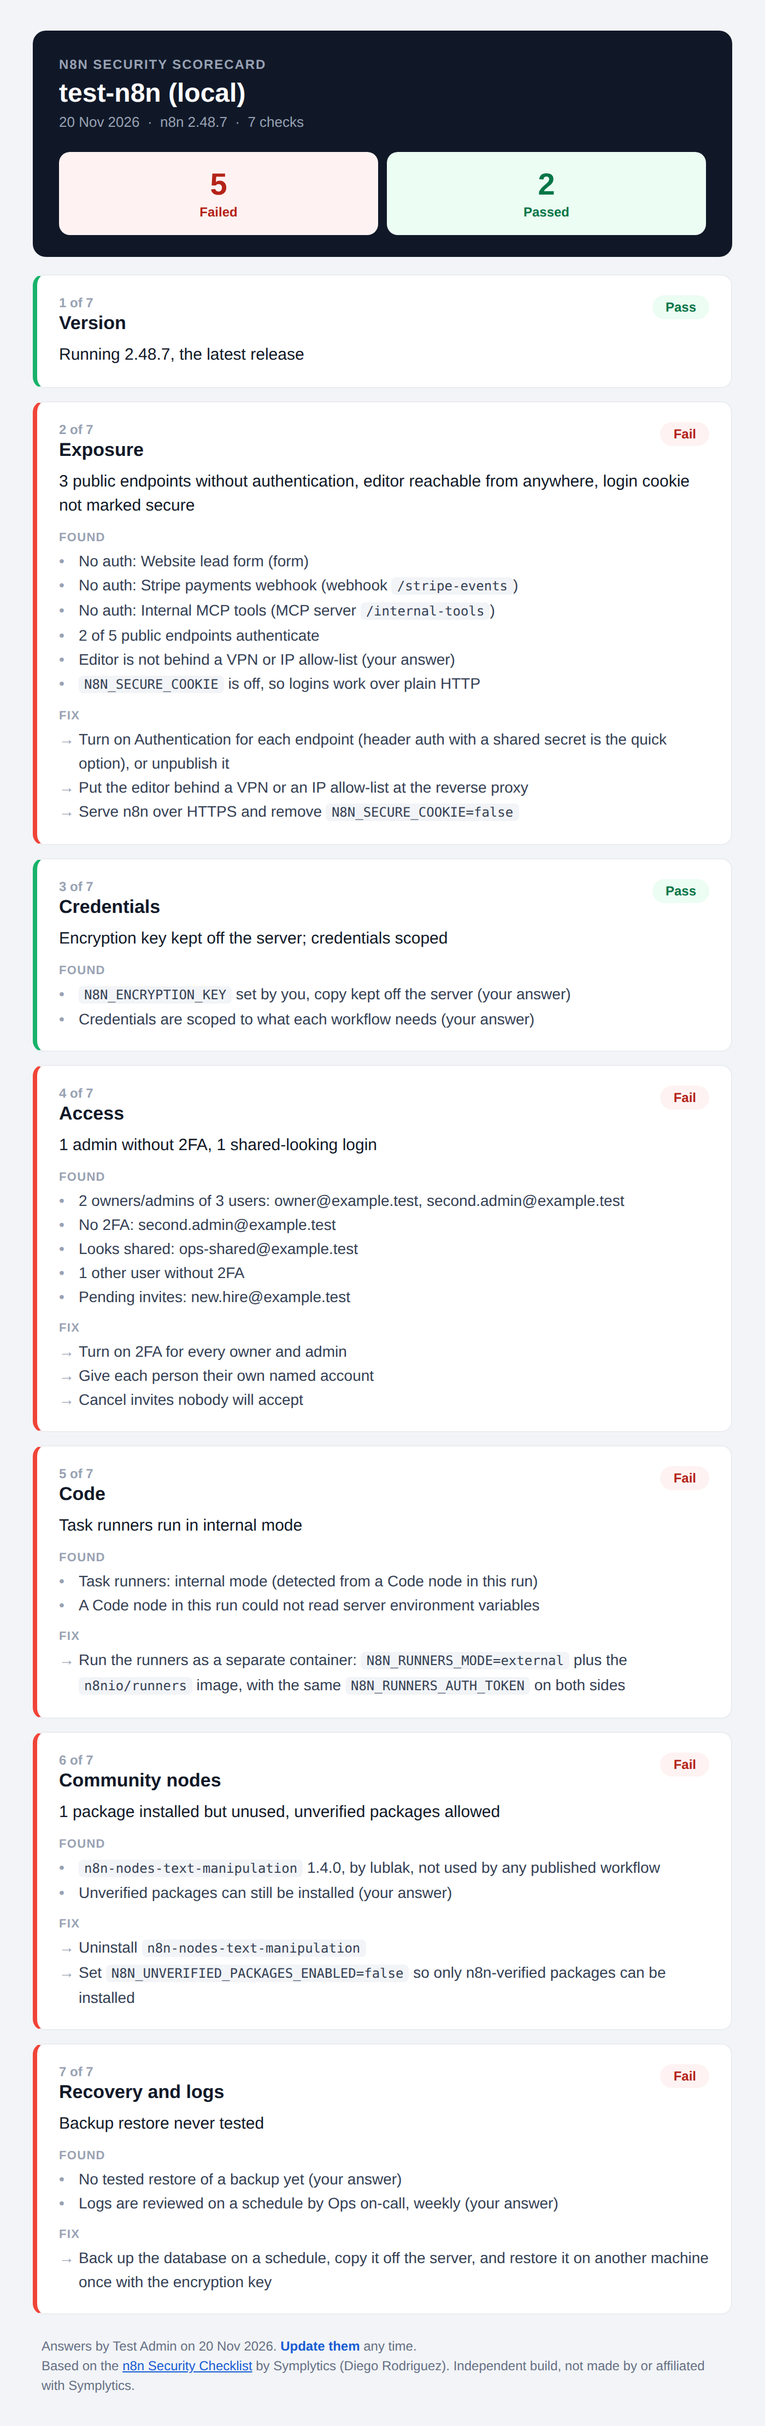
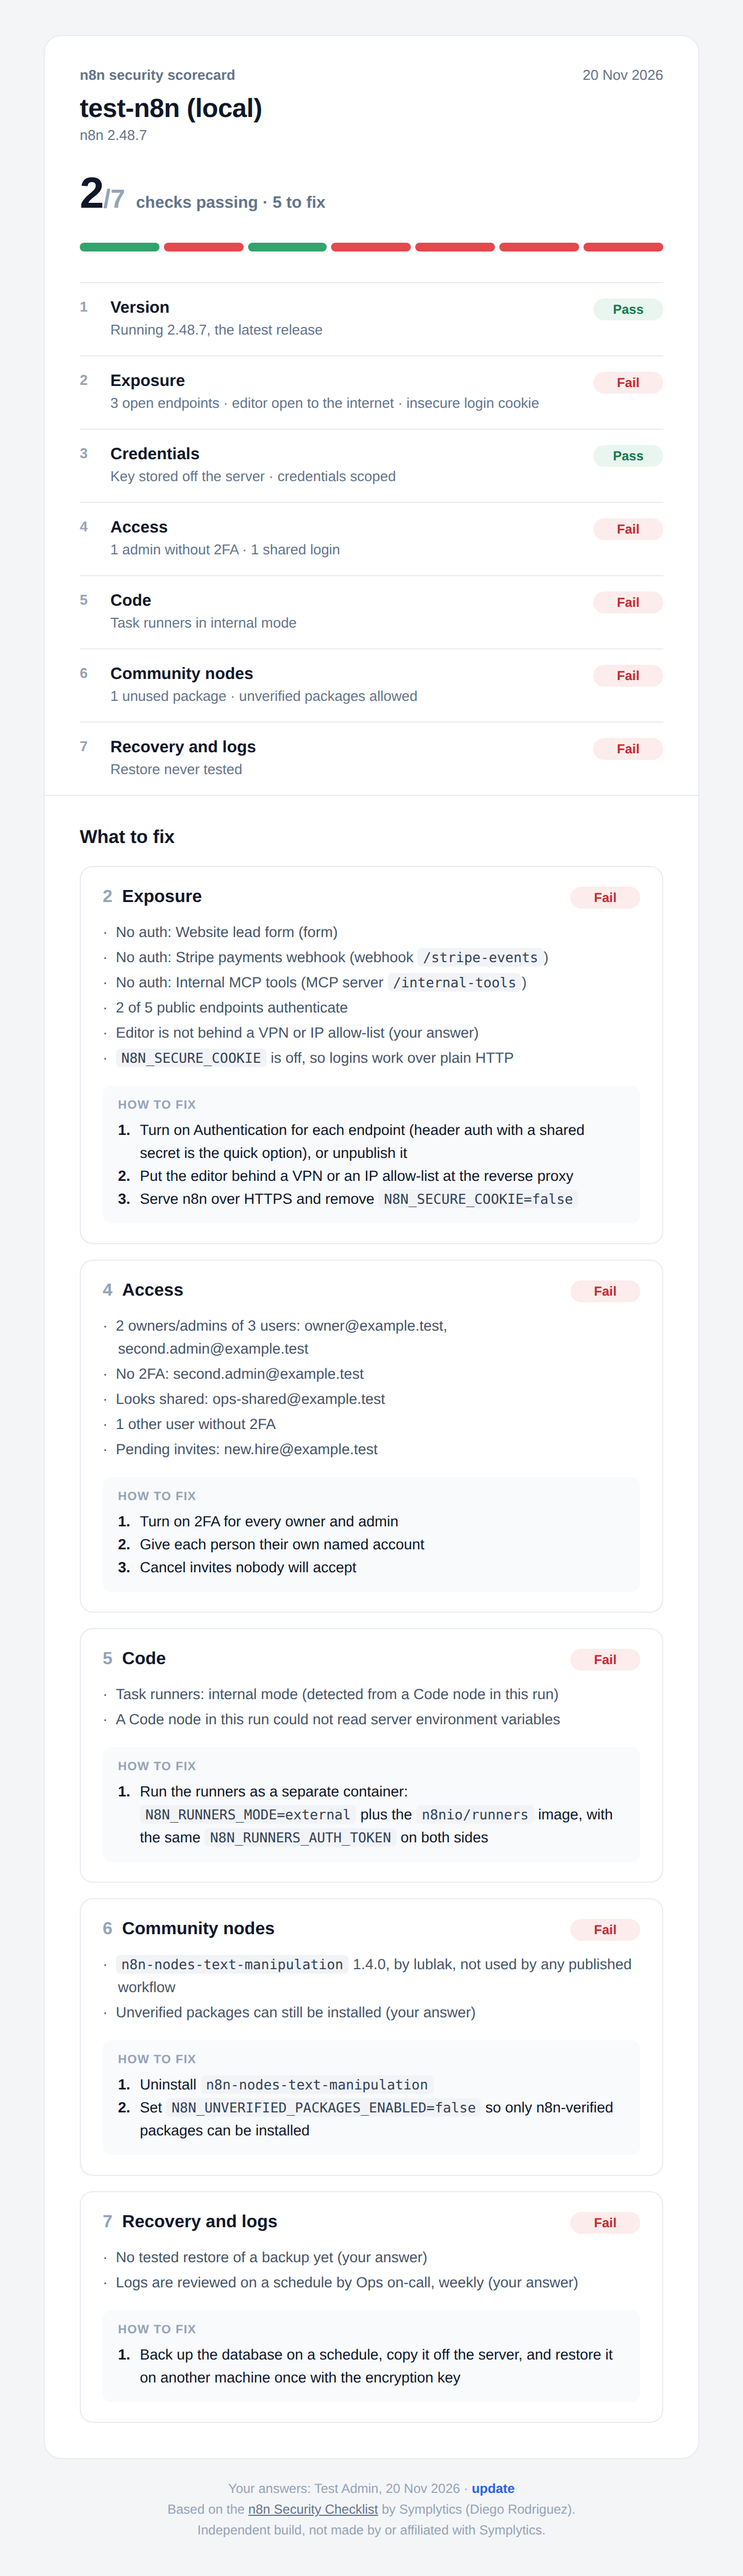
Redesign the scorecard email: score bar, one-line summary per check, details only for failures

diff --git a/src/scorecard.js b/src/scorecard.js
@@ -164,11 +164,11 @@ const decide = (autoFail, answerFail, usesAnswers = true) => {
   const found = [];
   const fix = [];
   const problems = [];
-  if (open.length) problems.push(`${plural(open.length, 'public endpoint')} without authentication`);
-  if (editorOpen) problems.push('editor reachable from anywhere');
-  if (cookieInsecure) problems.push('login cookie not marked secure');
+  if (open.length) problems.push(plural(open.length, 'open endpoint'));
+  if (editorOpen) problems.push('editor open to the internet');
+  if (cookieInsecure) problems.push('insecure login cookie');
   const total = open.length + validated.length + secured;
-  let headline = problems.length ? cap(problems.join(', ')) : `${plural(total, 'public endpoint')}, all authenticated`;
+  let headline = problems.length ? cap(problems.join(' · ')) : `${plural(total, 'public endpoint')}, all authenticated`;
   if (workflowsError) { headline = 'Could not list workflows'; found.push(workflowsError); }
   for (const o of open) found.push(`No auth: ${o}`);
   for (const v of validated) found.push(`No auth, checked in the next node: ${v}`);
@@ -203,8 +203,8 @@ const decide = (autoFail, answerFail, usesAnswers = true) => {
   if (scopeBad) fix.push('Swap broad credentials for scoped ones (for example a read-only database user)');
   if (status === 'FAIL' && unused.length) fix.push('Delete credentials nothing uses');
   const headline = status === 'FAIL'
-    ? cap([keyBad && 'encryption key has no off-server copy', scopeBad && 'some credentials are over-scoped'].filter(Boolean).join(', '))
-    : status === 'PASS' ? 'Encryption key kept off the server; credentials scoped' : 'Encryption key storage and credential scopes';
+    ? cap([keyBad && 'no off-server copy of the encryption key', scopeBad && 'over-scoped credentials'].filter(Boolean).join(' · '))
+    : status === 'PASS' ? 'Key stored off the server · credentials scoped' : 'Needs your one-time answers';
   add({ name: 'Credentials', status, headline, found, fix, needsAnswers: status === 'MANUAL' });
 }
 
@@ -231,8 +231,8 @@ const decide = (autoFail, answerFail, usesAnswers = true) => {
     const problems = [];
     if (admins.length > maxAdmins) problems.push(`${admins.length} owners/admins`);
     if (adminsNo2fa.length) problems.push(`${plural(adminsNo2fa.length, 'admin')} without 2FA`);
-    if (shared.length) problems.push(plural(shared.length, 'shared-looking login'));
-    headline = problems.length ? cap(problems.join(', ')) : `${plural(admins.length, 'owner/admin', 'owners/admins')}, all with 2FA`;
+    if (shared.length) problems.push(plural(shared.length, 'shared login'));
+    headline = problems.length ? cap(problems.join(' · ')) : `${plural(admins.length, 'owner/admin', 'owners/admins')}, all with 2FA`;
     found.push(`${plural(admins.length, 'owner/admin', 'owners/admins')} of ${plural(active.length, 'user')}: ${admins.map(who).join(', ')}`);
     if (adminsNo2fa.length) found.push(`No 2FA: ${adminsNo2fa.map(who).join(', ')}`);
     if (shared.length) found.push(`Looks shared: ${shared.map(who).join(', ')}`);
@@ -255,10 +255,10 @@ const decide = (autoFail, answerFail, usesAnswers = true) => {
   const internal = runnerMode === 'internal';
   let status = (envReadable || internal) ? 'FAIL' : (runnerMode === 'external' ? 'PASS' : 'MANUAL');
   const problems = [];
-  if (internal) problems.push('task runners run in internal mode');
-  if (envReadable) problems.push('workflow code can read server environment variables');
-  const headline = problems.length ? cap(problems.join('; '))
-    : status === 'PASS' ? 'External task runners; environment variables blocked'
+  if (internal) problems.push('task runners in internal mode');
+  if (envReadable) problems.push('code can read env variables');
+  const headline = problems.length ? cap(problems.join(' · '))
+    : status === 'PASS' ? 'External task runners · env access blocked'
       : 'Could not detect the task runner mode';
   found.push(runnerMode === 'unknown'
     ? 'Task runner mode: not detectable on this install'
@@ -297,11 +297,12 @@ const decide = (autoFail, answerFail, usesAnswers = true) => {
   if (unused.length) fix.push(`Uninstall ${unused.map((u) => `\`${u}\``).join(', ')}`);
   if (unverifiedOn) fix.push('Set `N8N_UNVERIFIED_PACKAGES_ENABLED=false` so only n8n-verified packages can be installed');
   const problems = [];
-  if (unused.length) problems.push(`${plural(unused.length, 'package')} installed but unused`);
+  if (unused.length) problems.push(plural(unused.length, 'unused package'));
   if (unverifiedOn) problems.push('unverified packages allowed');
-  const headline = problems.length ? cap(problems.join(', '))
+  const headline = problems.length ? cap(problems.join(' · '))
     : off ? 'Community packages are turned off'
-      : pkgs.length ? `${plural(pkgs.length, 'package')}, each used by a published workflow` : 'No community packages installed';
+      : !answers && !off ? 'Needs your one-time answers'
+        : pkgs.length ? `${plural(pkgs.length, 'package')}, all in use` : 'No community packages installed';
   add({ name: 'Community nodes', status, headline, found, fix, needsAnswers: status === 'MANUAL' });
 }
 
@@ -324,8 +325,8 @@ const decide = (autoFail, answerFail, usesAnswers = true) => {
   if (backupBad) fix.push('Back up the database on a schedule, copy it off the server, and restore it on another machine once with the encryption key');
   if (logsBad) fix.push('Pick someone to read the n8n logs every week, or stream them to a tool your team already watches');
   const headline = status === 'FAIL'
-    ? cap([backupBad && 'backup restore never tested', logsBad && 'nobody watches the logs'].filter(Boolean).join(', '))
-    : status === 'PASS' ? 'Restore tested; logs watched' : 'Backups, restores and log review';
+    ? cap([backupBad && 'restore never tested', logsBad && 'logs not reviewed'].filter(Boolean).join(' · '))
+    : status === 'PASS' ? 'Restore tested · logs reviewed' : 'Needs your one-time answers';
   add({ name: 'Recovery and logs', status, headline, found, fix, needsAnswers: status === 'MANUAL' });
 }
 
@@ -341,102 +342,105 @@ const subject = totals.FAIL
 
 const FONT = "-apple-system,BlinkMacSystemFont,'Segoe UI',Roboto,Helvetica,Arial,sans-serif";
 const MONO = 'ui-monospace,SFMono-Regular,Menlo,Consolas,monospace';
+const INK = '#0f172a';
+const MUTED = '#64748b';
+const LINE = '#e8ebf0';
 const STATUS = {
-  FAIL: { fg: '#b42318', bg: '#fef3f2', line: '#f04438', label: 'Fail' },
-  PASS: { fg: '#067647', bg: '#ecfdf3', line: '#17b26a', label: 'Pass' },
-  MANUAL: { fg: '#93370d', bg: '#fffaeb', line: '#f79009', label: 'Needs answers' },
+  FAIL: { dot: '#e5484d', fg: '#c62a2f', bg: '#fdecec', label: 'Fail' },
+  PASS: { dot: '#30a46c', fg: '#18794e', bg: '#e9f6ef', label: 'Pass' },
+  MANUAL: { dot: '#f5a524', fg: '#a35200', bg: '#fff4e0', label: 'Answer' },
 };
 const rich = (s) => esc(s).replace(/`([^`]+)`/g,
-  `<code style="font-family:${MONO};font-size:12px;background:#f2f4f7;border-radius:4px;padding:1px 5px;color:#344054">$1</code>`);
-const link = (href, text) => `<a href="${esc(href)}" style="color:#175cd3;font-weight:600;text-decoration:none">${esc(text)}</a>`;
-const block = (label, lines, mark) => !lines.length ? '' : `
-  <tr><td colspan="2" style="padding:12px 0 0">
-    <div style="font-size:11px;font-weight:600;letter-spacing:.06em;text-transform:uppercase;color:#98a2b3;padding-bottom:4px">${label}</div>
-    ${lines.map((l) => `<table role="presentation" cellpadding="0" cellspacing="0" width="100%"><tr>
-      <td width="18" valign="top" style="font-size:14px;line-height:22px;color:#98a2b3">${mark}</td>
-      <td style="font-size:14px;line-height:22px;color:#344054">${rich(l)}</td></tr></table>`).join('')}
-  </td></tr>`;
+  `<span style="font-family:${MONO};font-size:12.5px;background:#f1f3f6;border-radius:4px;padding:1px 5px;color:#334155">$1</span>`);
+const link = (href, text) => `<a href="${esc(href)}" style="color:#2563eb;font-weight:600;text-decoration:none">${esc(text)}</a>`;
+const pill = (s) => `<span style="display:inline-block;min-width:44px;text-align:center;padding:3px 10px;border-radius:999px;background:${STATUS[s].bg};color:${STATUS[s].fg};font-size:12px;font-weight:600">${STATUS[s].label}</span>`;
 
-const card = (c) => {
-  const s = STATUS[c.status];
-  const ask = c.needsAnswers
-    ? `<tr><td colspan="2" style="padding:12px 0 0;font-size:14px;line-height:22px;color:#344054">n8n can't see this part. ${link(formUrl, 'Answer the one-time questions →')}</td></tr>`
-    : '';
-  return `
-<tr><td style="padding:0 0 12px">
-  <table role="presentation" cellpadding="0" cellspacing="0" width="100%" style="background:#ffffff;border:1px solid #eaecf0;border-left:4px solid ${s.line};border-radius:10px">
-    <tr><td style="padding:18px 20px">
-      <table role="presentation" cellpadding="0" cellspacing="0" width="100%">
-        <tr>
-          <td valign="top">
-            <div style="font-size:12px;color:#98a2b3;font-weight:600">${c.n} of 7</div>
-            <div style="font-size:17px;font-weight:700;color:#101828;padding-top:2px">${esc(c.name)}</div>
-          </td>
-          <td valign="top" align="right">
-            <span style="display:inline-block;padding:4px 12px;border-radius:999px;background:${s.bg};color:${s.fg};font-size:12px;font-weight:700;white-space:nowrap">${s.label}</span>
-          </td>
-        </tr>
-        <tr><td colspan="2" style="padding-top:8px;font-size:15px;line-height:22px;color:#101828">${rich(c.headline)}</td></tr>
-        ${block('Found', c.found, '•')}
-        ${c.status === 'FAIL' ? block('Fix', c.fix, '→') : ''}
-        ${ask}
-      </table>
-    </td></tr>
-  </table>
-</td></tr>`;
-};
+// Seven-segment bar, one segment per check, in checklist order.
+const bar = `<table role="presentation" cellpadding="0" cellspacing="0" width="100%" style="table-layout:fixed"><tr>${checks.map((c, i) =>
+  `<td width="14%" style="padding:0 ${i < checks.length - 1 ? 4 : 0}px 0 0"><div style="height:8px;line-height:8px;font-size:1px;border-radius:4px;background:${STATUS[c.status].dot}">&nbsp;</div></td>`).join('')}</tr></table>`;
 
-const stat = (s, label) => `
-  <td width="33%" style="padding:0 4px">
-    <table role="presentation" cellpadding="0" cellspacing="0" width="100%" style="background:${STATUS[s].bg};border-radius:10px">
-      <tr><td align="center" style="padding:14px 8px">
-        <div style="font-size:28px;font-weight:800;line-height:32px;color:${STATUS[s].fg}">${totals[s]}</div>
-        <div style="font-size:12px;font-weight:600;color:${STATUS[s].fg};padding-top:2px">${label}</div>
+const scoreWord = totals.FAIL ? `${totals.FAIL} to fix` : totals.MANUAL ? `${totals.MANUAL} waiting on answers` : 'nothing to fix';
+
+const summaryRows = checks.map((c, i) => `
+  <tr>
+    <td style="padding:14px 0;${i ? `border-top:1px solid ${LINE};` : ''}width:28px;vertical-align:top;font-size:13px;color:#94a3b8;font-weight:600">${c.n}</td>
+    <td style="padding:14px 12px 14px 0;${i ? `border-top:1px solid ${LINE};` : ''}vertical-align:top">
+      <div style="font-size:15px;font-weight:600;color:${INK}">${esc(c.name)}</div>
+      <div style="font-size:13px;line-height:19px;color:${MUTED};padding-top:2px">${rich(c.headline)}</div>
+    </td>
+    <td align="right" style="padding:14px 0;${i ? `border-top:1px solid ${LINE};` : ''}vertical-align:top;white-space:nowrap">${pill(c.status)}</td>
+  </tr>`).join('');
+
+const failing = checks.filter((c) => c.status === 'FAIL');
+const detail = (c) => `
+  <tr><td style="padding:0 0 14px">
+    <table role="presentation" cellpadding="0" cellspacing="0" width="100%" style="border:1px solid ${LINE};border-radius:12px">
+      <tr><td style="padding:18px 20px">
+        <table role="presentation" cellpadding="0" cellspacing="0" width="100%"><tr>
+          <td style="font-size:16px;font-weight:700;color:${INK}"><span style="color:#94a3b8;font-weight:600">${c.n}&nbsp;&nbsp;</span>${esc(c.name)}</td>
+          <td align="right">${pill('FAIL')}</td>
+        </tr></table>
+        ${c.found.length ? `<div style="padding-top:10px">${c.found.map((f) =>
+          `<div style="font-size:13.5px;line-height:21px;color:#475569;padding:1px 0 1px 14px;text-indent:-14px">·&nbsp;&nbsp;${rich(f)}</div>`).join('')}</div>` : ''}
+        ${c.fix.length ? `<div style="margin-top:14px;padding:12px 14px;background:#f8fafc;border-radius:8px">
+          <div style="font-size:11px;font-weight:700;letter-spacing:.06em;text-transform:uppercase;color:#94a3b8;padding-bottom:6px">How to fix</div>
+          ${c.fix.map((f, i) => `<table role="presentation" cellpadding="0" cellspacing="0" width="100%"><tr>
+            <td width="20" valign="top" style="font-size:13.5px;line-height:21px;color:${INK};font-weight:700">${i + 1}.</td>
+            <td style="font-size:13.5px;line-height:21px;color:${INK}">${rich(f)}</td></tr></table>`).join('')}
+        </div>` : ''}
       </td></tr>
     </table>
-  </td>`;
-const stats = totals.MANUAL
-  ? stat('FAIL', 'Failed') + stat('PASS', 'Passed') + stat('MANUAL', 'Need answers')
-  : `${stat('FAIL', 'Failed')}${stat('PASS', 'Passed')}`;
+  </td></tr>`;
 
 let banner = '';
 if (!answers) {
-  banner = `n8n can't see a few things, like where the encryption key is kept or whether a backup was ever restored. ${link(formUrl, 'Answer 6 yes/no questions once')} (about 2 minutes) and every scorecard after that is fully scored.`;
+  banner = `<b>${plural(totals.MANUAL, 'check needs', 'checks need')} your answers.</b> n8n can't see a few things, like where the encryption key is kept or whether a backup was ever restored. ${link(formUrl, 'Answer 6 yes/no questions')} once and every scorecard after that is fully scored.`;
 } else if (stale) {
-  banner = `Your answers are from ${fmtDate(answers.answered_at)} (${answerAge} days ago). ${link(formUrl, 'Confirm they are still true')}.`;
+  banner = `<b>Your answers are ${answerAge} days old.</b> They're still used, but things change. ${link(formUrl, 'Confirm them')} (2 minutes).`;
 }
 const bannerHtml = banner ? `
-  <tr><td style="padding:0 0 12px">
-    <table role="presentation" cellpadding="0" cellspacing="0" width="100%" style="background:#eff8ff;border:1px solid #b2ddff;border-radius:10px">
-      <tr><td style="padding:14px 18px;font-size:14px;line-height:21px;color:#194185">${banner}</td></tr>
+  <tr><td style="padding:0 32px 24px">
+    <table role="presentation" cellpadding="0" cellspacing="0" width="100%" style="background:#eff6ff;border-radius:10px">
+      <tr><td style="padding:14px 16px;font-size:13.5px;line-height:21px;color:#1e3a8a">${banner}</td></tr>
     </table>
   </td></tr>` : '';
 const answeredLine = answers
-  ? `Answers by ${esc(answers.answered_by || 'an admin')} on ${esc(fmtDate(answers.answered_at))}. ${link(formUrl, 'Update them')} any time.<br>`
+  ? `Your answers: ${esc(answers.answered_by || 'an admin')}, ${esc(fmtDate(answers.answered_at))} · ${link(formUrl, 'update')}<br>`
   : '';
 
 const html = `<!doctype html>
 <html><head><meta charset="utf-8"><meta name="viewport" content="width=device-width,initial-scale=1"><title>${esc(subject)}</title></head>
-<body style="margin:0;padding:0;background:#f2f4f7;font-family:${FONT}">
-<table role="presentation" cellpadding="0" cellspacing="0" width="100%" style="background:#f2f4f7">
-<tr><td align="center" style="padding:28px 12px">
-<table role="presentation" cellpadding="0" cellspacing="0" width="100%" style="max-width:640px;font-family:${FONT}">
-  <tr><td style="padding:0 0 16px">
-    <table role="presentation" cellpadding="0" cellspacing="0" width="100%" style="background:#101828;border-radius:12px">
-      <tr><td style="padding:24px 24px 20px">
-        <div style="font-size:12px;font-weight:600;letter-spacing:.08em;text-transform:uppercase;color:#98a2b3">n8n security scorecard</div>
-        <div style="font-size:24px;font-weight:700;color:#ffffff;padding-top:6px">${esc(instance)}</div>
-        <div style="font-size:13px;color:#98a2b3;padding-top:4px">${esc(today)}${version ? ` &nbsp;·&nbsp; n8n ${esc(version)}` : ''} &nbsp;·&nbsp; 7 checks</div>
-      </td></tr>
-      <tr><td style="padding:0 20px 20px">
-        <table role="presentation" cellpadding="0" cellspacing="0" width="100%"><tr>${stats}</tr></table>
-      </td></tr>
-    </table>
+<body style="margin:0;padding:0;background:#f4f5f7;font-family:${FONT};-webkit-font-smoothing:antialiased">
+<table role="presentation" cellpadding="0" cellspacing="0" width="100%" style="background:#f4f5f7">
+<tr><td align="center" style="padding:32px 12px">
+<table role="presentation" cellpadding="0" cellspacing="0" width="100%" style="max-width:600px;background:#ffffff;border:1px solid ${LINE};border-radius:16px;font-family:${FONT}">
+  <tr><td style="padding:28px 32px 0">
+    <table role="presentation" cellpadding="0" cellspacing="0" width="100%"><tr>
+      <td style="font-size:13px;font-weight:600;color:${MUTED}">n8n security scorecard</td>
+      <td align="right" style="font-size:13px;color:${MUTED}">${esc(today)}</td>
+    </tr></table>
+    <div style="font-size:24px;font-weight:700;color:${INK};padding-top:10px;letter-spacing:-.01em">${esc(instance)}</div>
+    ${version ? `<div style="font-size:13px;color:${MUTED};padding-top:2px">n8n ${esc(version)}</div>` : ''}
+  </td></tr>
+  <tr><td style="padding:24px 32px 28px">
+    <div style="font-size:40px;line-height:44px;font-weight:800;color:${INK};letter-spacing:-.02em">${totals.PASS}<span style="font-size:24px;color:#94a3b8;font-weight:700;letter-spacing:0">/7</span><span style="font-size:15px;font-weight:600;color:${MUTED};letter-spacing:0;padding-left:10px">checks passing · ${scoreWord}</span></div>
+    <div style="padding-top:14px">${bar}</div>
   </td></tr>
   ${bannerHtml}
-  ${checks.map(card).join('')}
-  <tr><td style="padding:8px 8px 0;font-size:12px;line-height:18px;color:#667085">
-    ${answeredLine}Based on the <a href="https://symplytics.com/blog/n8n-security-checklist" style="color:#175cd3">n8n Security Checklist</a> by Symplytics (Diego Rodriguez).
+  <tr><td style="padding:0 32px">
+    <table role="presentation" cellpadding="0" cellspacing="0" width="100%" style="border-top:1px solid ${LINE}">${summaryRows}</table>
+  </td></tr>
+  ${failing.length ? `
+  <tr><td style="padding:28px 32px 6px;border-top:1px solid ${LINE}">
+    <div style="font-size:17px;font-weight:700;color:${INK}">What to fix</div>
+  </td></tr>
+  <tr><td style="padding:10px 32px 18px">
+    <table role="presentation" cellpadding="0" cellspacing="0" width="100%">${failing.map(detail).join('')}</table>
+  </td></tr>` : `<tr><td style="padding:0 0 12px"></td></tr>`}
+</table>
+<table role="presentation" cellpadding="0" cellspacing="0" width="100%" style="max-width:600px">
+  <tr><td align="center" style="padding:18px 24px 0;font-size:12px;line-height:19px;color:#94a3b8">
+    ${answeredLine}Based on the <a href="https://symplytics.com/blog/n8n-security-checklist" style="color:#64748b">n8n Security Checklist</a> by Symplytics (Diego Rodriguez).<br>
     Independent build, not made by or affiliated with Symplytics.
   </td></tr>
 </table>
@@ -447,7 +451,7 @@ const html = `<!doctype html>
 const icon = { PASS: '✅', FAIL: '❌', MANUAL: '📝' };
 const text = [
   `*n8n security scorecard: ${instance}* (${today}${version ? `, n8n ${version}` : ''})`,
-  `${totals.FAIL} failed · ${totals.PASS} passed${totals.MANUAL ? ` · ${totals.MANUAL} need answers` : ''}`,
+  `${totals.PASS}/7 passing · ${scoreWord}`,
   '',
   ...checks.map((c) => `${icon[c.status]} *${c.n}. ${c.name}*: ${c.headline.replace(/`/g, '')}`),
   ...(!answers || stale ? ['', `${!answers ? 'Answer the one-time questions' : 'Confirm your answers'}: ${formUrl}`] : []),
